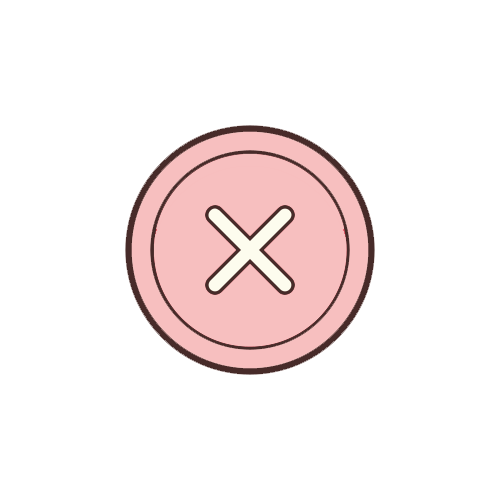
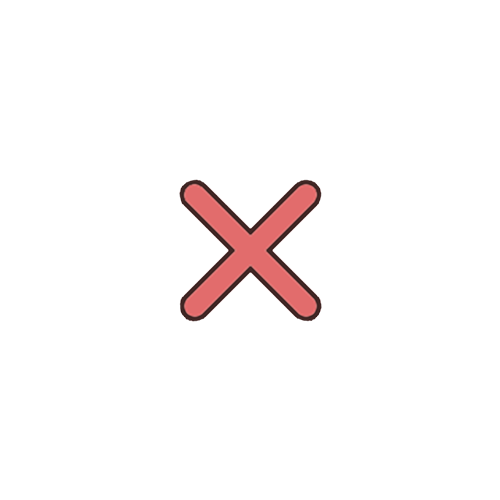
notifications view

Changed region(s): [[0.24, 0.24, 0.75, 0.75]]

diff --git a/app/assets/stylesheets/group_invitations/_index.scss b/app/assets/stylesheets/group_invitations/_index.scss
@@ -6,10 +6,62 @@
   border-radius: 15px;
   margin: 0;
   color: white;
+  position: relative;
+  border-top: 4px solid #32A6BE;
+  overflow: hidden;
+  transition: transform .3s, border-top .3s;
+}
+
+
+.invitation-card:hover {
+  transform: scale(1.02);
+  border-top: 4px solid #32be78;
+}
+
+input.btn.btn-accept {
+  margin-left: 55px;
+}
+.description-invitation{
+  margin-left: 56px;
+  background: #193041;
+  padding: 10px 15px;
+  border-radius: 15px;
+}
+
+input.btn.btn-accept {
+  margin-left: 57px;
+  border-radius: 15px;
+  padding: 10px 15px;
+}
+
+.img-invitation {
+  width: 50px;
+}
+
+.grupo-text {
+  color: #43e5ab;
 }
 
 .position-invitation {
   flex-direction: row !important;
+}
+
+.delete-invitation {
+  transition: .2s;
+  border: none;
+  padding: 0;
+  margin: 0;
+  position: absolute;
+  top: -1px;
+  right: -1px;
+}
+
+.delete-invitation img:hover {
+  transform: scale(1.1);
+}
+
+.delete-invitation img {
+  width: 50px;
 }
 
 
@@ -31,13 +83,64 @@
   left: 0;
 }
 
+.icon-invitation {
+  height: 320px;
+}
+
+.texto-in {
+  background-color: #1922297e;
+  border-radius: 15px;
+  border-bottom: 4px solid #32A6BE;
+  border-right: 4px solid #32A6BE;
+  border-top: 4px solid #32be78;
+  border-left: 4px solid #32be78;
+  overflow: hidden;
+  transition: transform .3s, border-top .3s;
+}
+
 .segundo-div {
-  width: 30%;
+  width: 20%;
   margin-top: 124px !important;
-  z-index: 20;
+  z-index: 17;
+  position: fixed;
+  right: 67px;
 }
 
 .options-cards h2.title-invitation {
   color: #fff;
   font-weight: bold;
+}
+
+@media (max-width: 1370px) {
+  .segundo-div {
+    width: 20%;
+    margin-top: 95px !important;
+    z-index: 17;
+    position: fixed;
+    right: 67px;
+}
+
+  .primer-div {
+    width: 60%;
+    margin-left: 32px;
+    margin-right: 27px;
+    margin-top: 91px !important;
+    z-index: 20;
+  }
+
+  input.btn.btn-accept {
+    margin-left: 57px;
+    border-radius: 15px;
+    padding: 5px 10px;
+    font-size: 0.9em;
+  }
+
+  .icon-invitation {
+    height: 250px;
+  }
+
+  h4, .h4 {
+    font-size: 1.3rem;
+  }
+
 }

diff --git a/app/assets/stylesheets/application.scss b/app/assets/stylesheets/application.scss
@@ -5,7 +5,7 @@
   cursor: url(cursor.png), auto;
 }
 
-a, button, .fa-house, .fa-user-plus, .fa-right-to-bracket, .fa-lock, input[type="color"], section.tarjeta *, input.btn-enviar, .contenedor-btn, .fa-plus, input[type="submit"], .fa-circle-arrow-left, .fa-circle-arrow-left span, span.icon-input .fa-eye-slash, span.icon-input .fa-eye, a .fa-circle-plus, #agregar-bank, .fa-circle-plus::before, .menuToggle *, .nav-link *, .cerrar-sesion *, .fa-copy, input#longitud {
+a, button, .fa-house, .fa-user-plus, .fa-right-to-bracket, .fa-lock, input[type="color"], section.tarjeta *, input.btn-enviar, .contenedor-btn, .fa-plus, input[type="submit"], .fa-circle-arrow-left, .fa-circle-arrow-left span, span.icon-input .fa-eye-slash, span.icon-input .fa-eye, a .fa-circle-plus, #agregar-bank, .fa-circle-plus::before, .menuToggle *, .nav-link *, .cerrar-sesion *, .fa-copy, input#longitud, .delete-invitation img {
   cursor: url(cpointer.png), auto !important;
 }
 

diff --git a/app/javascript/controllers/invitation_controller.js b/app/javascript/controllers/invitation_controller.js
@@ -2,13 +2,11 @@ import { Controller } from "@hotwired/stimulus"
 
 // Connects to data-controller="invitation"
 export default class extends Controller {
-  // static targets = ["invitationcard", "btn"]
+
+  static targets = ["invitationcard"]
+
   connect() {
 
   }
 
-  // rechazar(){
-  //   console.log(this.invitationcardTarget)
-  //   console.log(this.btnTarget)
-  // }
 }

diff --git a/app/assets/stylesheets/components/_custom_nav.scss b/app/assets/stylesheets/components/_custom_nav.scss
@@ -370,7 +370,7 @@ span.noti {
 
 small.span-noti {
   color: #fff;
-  background: #b54040;
+  background: #e26c6c;
   border-radius: 50%;
   padding: 11px;
   height: 20px;
